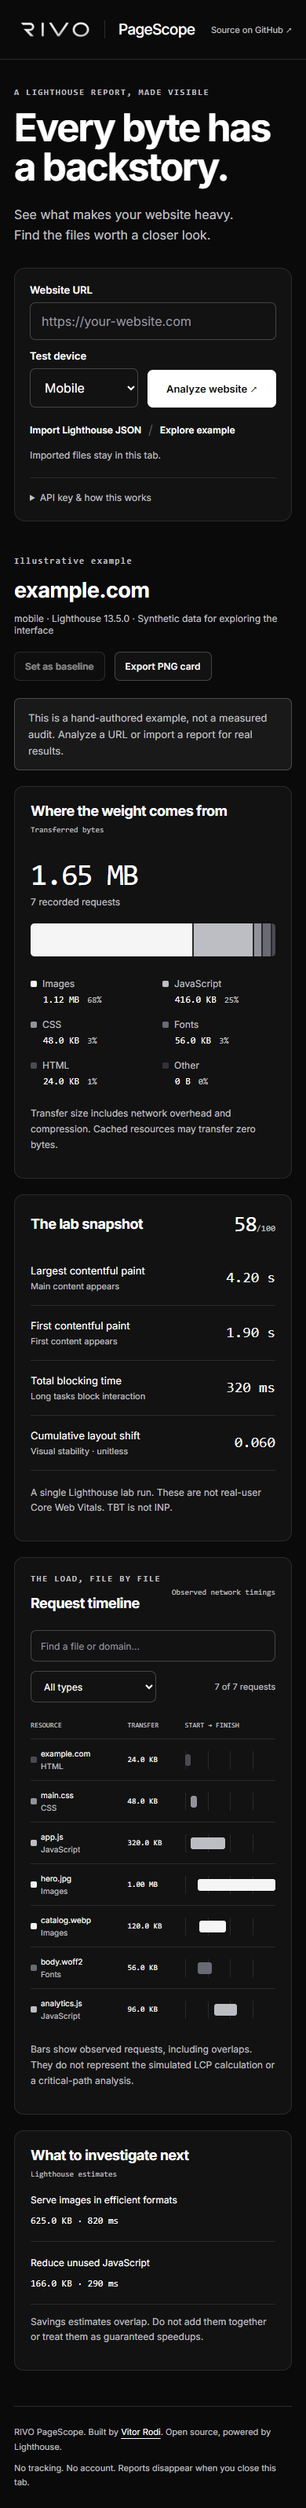
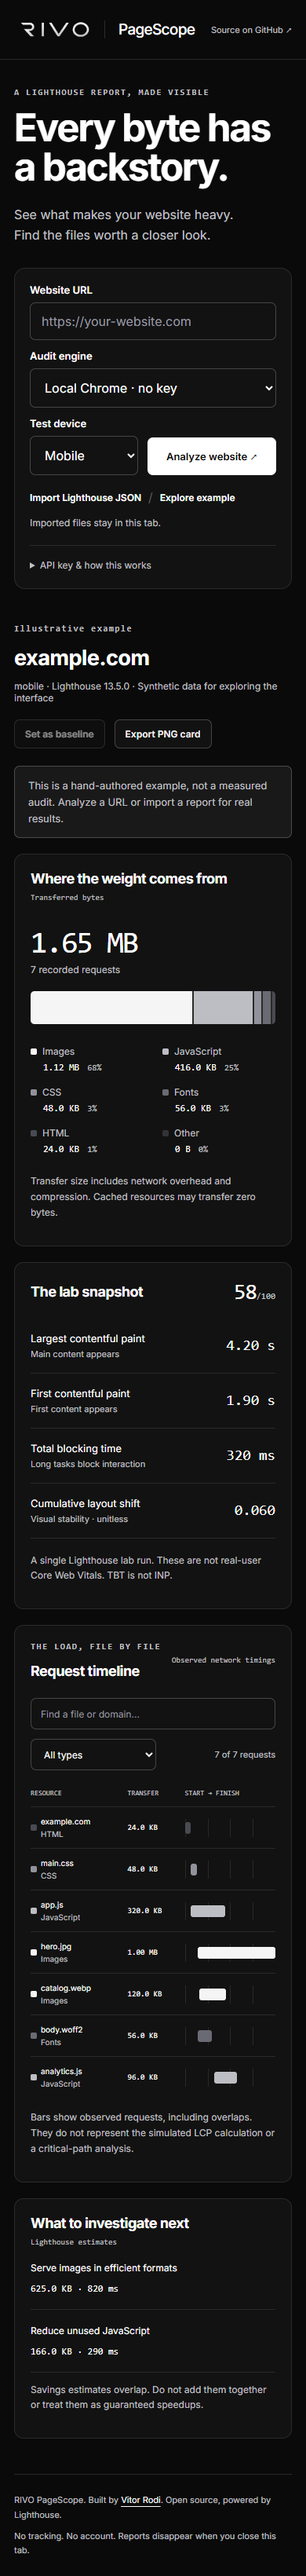
Run Lighthouse locally from the audit button without Google quota

diff --git a/src/main.tsx b/src/main.tsx
@@ -29,6 +29,8 @@ function resourceLabel(url: string) {
 }
 
 function App() {
+  const isLocal = ['127.0.0.1', 'localhost', '[::1]'].includes(window.location.hostname);
+  const [engine, setEngine] = useState(isLocal ? 'local' : 'google');
   const [url, setUrl] = useState('');
   const [device, setDevice] = useState<Device>('mobile');
   const [key, setKey] = useState('');
@@ -60,8 +62,25 @@ function App() {
     setBusy(true);
     const request = new AbortController();
     controller.current = request;
-    const timeout = setTimeout(() => request.abort('timeout'), 120000);
+    const timeout = setTimeout(() => request.abort('timeout'), 150000);
     try {
+      if (engine === 'local') {
+        const localResponse = await fetch(`${import.meta.env.BASE_URL}api/audit`, {
+          method: 'POST',
+          headers: { 'Content-Type': 'application/json' },
+          body: JSON.stringify({ url: target, device }),
+          signal: request.signal,
+        });
+        if (localResponse.status === 404)
+          throw new Error(
+            'The local engine is unavailable. Start this project with npm run dev or npm run preview.',
+          );
+        const localResult = await localResponse.json();
+        if (!localResponse.ok)
+          throw new Error(localResult.error || 'Local Lighthouse could not finish this audit.');
+        show(localResult, 'Local Lighthouse');
+        return;
+      }
       const response = await fetch(buildApiUrl(target, device, key), {
         signal: request.signal,
         referrerPolicy: 'no-referrer',
@@ -87,7 +106,9 @@ function App() {
             ? 'The audit timed out. Try again or import a Lighthouse report.'
             : 'Audit canceled. You can start another run.'
           : e instanceof TypeError
-            ? 'Could not reach PageSpeed Insights. Check your connection or import a Lighthouse report.'
+            ? engine === 'local'
+              ? 'Could not reach the local audit engine. Restart npm run dev and try again.'
+              : 'Could not reach PageSpeed Insights. Check your connection or import a Lighthouse report.'
             : (e as Error).message,
       );
     } finally {
@@ -193,6 +214,18 @@ function App() {
                 autoComplete="url"
               />
             </div>
+            <div className="engine-field">
+              <label htmlFor="engine">Audit engine</label>
+              <select
+                id="engine"
+                value={engine}
+                onChange={(e) => setEngine(e.target.value)}
+                disabled={busy}
+              >
+                {isLocal && <option value="local">Local Chrome · no key</option>}
+                <option value="google">Google PageSpeed</option>
+              </select>
+            </div>
             <div className="device-field">
               <label htmlFor="device">Test device</label>
               <select
@@ -246,8 +279,9 @@ function App() {
           <details className="api-options">
             <summary>API key & how this works</summary>
             <p>
-              URL audits send the website address to Google PageSpeed Insights. Public quota can run
-              out. Use your own restricted key or import a report exported from Chrome DevTools →
+              Local Chrome runs Lighthouse on this computer in a temporary browser profile. No
+              Google API key is needed. Google PageSpeed sends the website address to Google; its
+              public quota can run out. You can also import a report exported from Chrome DevTools →
               Lighthouse → Save as JSON.
             </p>
             <label htmlFor="api-key">Your PageSpeed API key (optional)</label>
@@ -267,14 +301,18 @@ function App() {
               contain URLs and query parameters.
             </p>
             <p>
-              Without a key, run <code>npm run audit -- https://your-website.com</code> locally,
-              then import the generated report. See the GitHub README for setup.
+              Choose Local Chrome above when running this app with npm run dev or npm run preview.
+              The command <code>npm run audit -- https://your-website.com</code> and JSON import
+              remain available as alternatives.
             </p>
           </details>
           {busy && (
             <div className="status" role="status">
               <span className="spinner" aria-hidden="true" />
-              Google is running a lab test. This can take up to two minutes.
+              {engine === 'local'
+                ? 'Chrome is running Lighthouse on this computer.'
+                : 'Google is running a lab test.'}{' '}
+              This can take up to two minutes.
               <button
                 className="text-button"
                 type="button"

diff --git a/tests/local-server.test.ts b/tests/local-server.test.ts
@@ -1,0 +1,137 @@
+import { createServer } from 'node:http';
+import { once } from 'node:events';
+import { afterEach, expect, it } from 'vitest';
+import { createAuditMiddleware } from '../scripts/local-server.mjs';
+import { fixture } from './fixture';
+
+const servers: ReturnType<typeof createServer>[] = [];
+afterEach(async () => {
+  for (const server of servers.splice(0)) {
+    server.closeAllConnections();
+    await new Promise<void>((resolve) => server.close(() => resolve()));
+  }
+});
+async function start(
+  runAudit = async (_url: string, _device: string, _signal: AbortSignal): Promise<unknown> =>
+    fixture(),
+) {
+  const middleware = createAuditMiddleware(runAudit);
+  const server = createServer((req, res) =>
+    middleware(req, res, () => {
+      res.statusCode = 404;
+      res.end();
+    }),
+  );
+  servers.push(server);
+  server.listen(0, '127.0.0.1');
+  await once(server, 'listening');
+  const port = (server.address() as { port: number }).port;
+  return `http://127.0.0.1:${port}`;
+}
+it('makes a local URL audit available without a Google API key', async () => {
+  let received: unknown;
+  const base = await start(async (url, device) => {
+    received = { url, device };
+    return fixture();
+  });
+  const response = await fetch(base + '/api/audit', {
+    method: 'POST',
+    headers: { Origin: base, 'Content-Type': 'application/json' },
+    body: JSON.stringify({ url: 'https://example.com', device: 'desktop' }),
+  });
+  expect(response.status).toBe(200);
+  expect((await response.json()).lighthouseVersion).toBe('13.0.0');
+  expect(received).toEqual({ url: 'https://example.com/', device: 'desktop' });
+});
+it('rejects requests from another website before launching Chrome', async () => {
+  let called = false;
+  const base = await start(async () => {
+    called = true;
+    return fixture();
+  });
+  const response = await fetch(base + '/api/audit', {
+    method: 'POST',
+    headers: { Origin: 'https://other.example', 'Content-Type': 'application/json' },
+    body: JSON.stringify({ url: 'https://example.com', device: 'mobile' }),
+  });
+  expect(response.status).toBe(403);
+  expect(called).toBe(false);
+});
+it.each([
+  { url: 'http://127.0.0.1', device: 'mobile' },
+  { url: 'https://example.com', device: 'watch' },
+])('rejects invalid jobs before starting Chrome', async (body) => {
+  let called = false;
+  const base = await start(async () => {
+    called = true;
+    return fixture();
+  });
+  const response = await fetch(base + '/api/audit', {
+    method: 'POST',
+    headers: { Origin: base, 'Content-Type': 'application/json' },
+    body: JSON.stringify(body),
+  });
+  expect(response.status).toBe(400);
+  expect(called).toBe(false);
+});
+it('returns a useful error when Chrome cannot run and accepts another audit afterwards', async () => {
+  let attempts = 0;
+  const base = await start(async () => {
+    if (attempts++ === 0) throw new Error('Chrome not found');
+    return fixture();
+  });
+  const audit = () =>
+    fetch(base + '/api/audit', {
+      method: 'POST',
+      headers: { Origin: base, 'Content-Type': 'application/json' },
+      body: JSON.stringify({ url: 'https://example.com', device: 'mobile' }),
+    });
+  const failed = await audit();
+  expect(failed.status).toBe(500);
+  expect((await failed.json()).error).toMatch(/Chrome/);
+  expect((await audit()).status).toBe(200);
+});
+
+it('does not launch two Chrome audits concurrently', async () => {
+  let started!: () => void;
+  let finish!: (value: unknown) => void;
+  const running = new Promise<void>((resolve) => {
+    started = resolve;
+  });
+  const result = new Promise((resolve) => {
+    finish = resolve;
+  });
+  const base = await start(async () => {
+    started();
+    return result;
+  });
+  const audit = () =>
+    fetch(base + '/api/audit', {
+      method: 'POST',
+      headers: { Origin: base, 'Content-Type': 'application/json' },
+      body: JSON.stringify({ url: 'https://example.com', device: 'mobile' }),
+    });
+  const first = audit();
+  await running;
+  try {
+    expect((await audit()).status).toBe(409);
+  } finally {
+    finish(fixture());
+  }
+  expect((await first).status).toBe(200);
+});
+
+it('rejects a missing origin instead of allowing arbitrary local callers', async () => {
+  let called = false;
+  const base = await start(async () => {
+    called = true;
+    return fixture();
+  });
+  const response = await fetch(base + '/api/audit', {
+    method: 'POST',
+    headers: { 'Content-Type': 'application/json' },
+    body: JSON.stringify({ url: 'https://example.com', device: 'mobile' }),
+  });
+  expect(response.status).toBe(403);
+  expect(called).toBe(false);
+});

diff --git a/tests/e2e/app.spec.ts b/tests/e2e/app.spec.ts
@@ -43,6 +43,7 @@ test('explains quota failures and keeps the API key out of browser storage', asy
   );
   await page.goto('/');
   await page.getByLabel('Website URL').fill('https://example.com');
+  await page.getByLabel('Audit engine').selectOption('google');
   await page.getByText('API key & how this works', { exact: true }).click();
   await page.getByLabel('Your PageSpeed API key (optional)').fill('test-key-not-a-secret');
   await page.getByRole('button', { name: 'Analyze website' }).click();
@@ -58,11 +59,27 @@ test('renders a successful API response and sends the selected device', async ({
   });
   await page.goto('/');
   await page.getByLabel('Website URL').fill('https://example.com/?a=1&b=2');
+  await page.getByLabel('Audit engine').selectOption('google');
   await page.getByLabel('Test device').selectOption('desktop');
   await page.getByRole('button', { name: 'Analyze website' }).click();
   await expect(page.getByText('PageSpeed Insights', { exact: true })).toBeVisible();
   expect(new URL(requested).searchParams.get('strategy')).toBe('desktop');
   expect(new URL(requested).searchParams.get('url')).toBe('https://example.com/?a=1&b=2');
+});
+
+test('uses the local engine from the analyze button without contacting Google', async ({
+  page,
+}) => {
+  let googleCalls = 0;
+  page.on('request', (request) => {
+    if (request.url().includes('googleapis.com')) googleCalls++;
+  });
+  await page.route('**/api/audit', (route) => route.fulfill({ json: fixture() }));
+  await page.goto('/');
+  await page.getByLabel('Website URL').fill('https://example.com');
+  await page.getByRole('button', { name: 'Analyze website' }).click();
+  await expect(page.getByText('Local Lighthouse', { exact: true })).toBeVisible();
+  expect(googleCalls).toBe(0);
 });
 
 test('mobile layout fits the viewport and invalid imports produce a useful error', async ({

diff --git a/tests/lighthouse-runner.test.ts b/tests/lighthouse-runner.test.ts
@@ -1,0 +1,15 @@
+import { expect, it, vi } from 'vitest';
+import { runLocalAudit } from '../scripts/lighthouse-runner.mjs';
+
+// Chrome and the website audit are external boundaries. On Windows kill() can return void.
+vi.mock('chrome-launcher', () => ({ launch: async () => ({ port: 9234, kill() {} }) }));
+vi.mock('lighthouse', () => ({
+  default: async () => ({
+    lhr: { lighthouseVersion: '13.5.0', finalDisplayedUrl: 'https://example.com/' },
+  }),
+}));
+it('returns the completed report when Chrome cleanup returns void', async () => {
+  const report = await runLocalAudit('https://example.com/', 'mobile');
+  expect(report.lighthouseVersion).toBe('13.5.0');
+  expect(report.finalDisplayedUrl).toBe('https://example.com/');
+});

diff --git a/vite.config.ts b/vite.config.ts
@@ -1,2 +1,17 @@
 import { defineConfig } from 'vitest/config';
-export default defineConfig({ base: './', test: { include: ['tests/**/*.test.ts'] } });
+import { createAuditMiddleware } from './scripts/local-server.mjs';
+export default defineConfig({
+  base: './',
+  plugins: [
+    {
+      name: 'local-lighthouse',
+      configureServer(server) {
+        server.middlewares.use(createAuditMiddleware());
+      },
+      configurePreviewServer(server) {
+        server.middlewares.use(createAuditMiddleware());
+      },
+    },
+  ],
+  test: { include: ['tests/**/*.test.ts'] },
+});

diff --git a/src/style.css b/src/style.css
@@ -185,6 +185,9 @@ label {
 .device-field {
   width: 140px;
 }
+.engine-field {
+  width: 210px;
+}
 input,
 select {
   width: 100%;
@@ -689,6 +692,9 @@ footer p {
   }
 }
 @media (max-width: 580px) {
+  .engine-field {
+    width: 100%;
+  }
   main {
     padding: 0 18px;
   }

diff --git a/README.md b/README.md
@@ -2,11 +2,12 @@
 
 **See what makes a website heavy.** RIVO PageScope turns Lighthouse JSON reports into a visual breakdown of page weight, network requests, and lab metrics. Built with React and TypeScript, using RIVO's black, white, graphite, and silver identity.
 
-![RIVO PageScope interface](docs/pagescope-desktop.png)
+![RIVO PageScope displaying an actual local Lighthouse run](docs/local-audit-verified.png)
 
 ## What you can do
 
-- Audit a public URL on mobile or desktop through Google PageSpeed Insights.
+- Audit a public URL on mobile or desktop using local Chrome, without an API key.
+- Optionally switch to Google PageSpeed Insights for a remote audit.
 - Import Lighthouse or PageSpeed JSON files locally, without uploading them.
 - See transferred bytes grouped into images, JavaScript, CSS, fonts, HTML, and other resources.
 - Filter a request waterfall by filename, domain, or resource type.
@@ -26,7 +27,9 @@ npm ci
 npm run dev
 ```
 
-Open the local address printed by Vite. The application is a static client: no database, account, server-side URL fetcher, or paid service is required.
+Open the local address printed by Vite. **Local Chrome is selected by default** on localhost. Enter a website URL and select **Analyze website**; the local engine runs Lighthouse and displays the report automatically. Chrome must be installed. No API key, JSON import, database, or account is needed for this flow.
+
+Vite's development and preview servers include a local-only audit endpoint. It accepts same-origin requests from the loopback interface, validates the URL/device, runs one audit at a time, and cancels Chrome when the client disconnects. Do not expose this development server as a public audit service. A static deployment of `dist/` has no local Chrome endpoint: it supports Google PageSpeed and JSON import instead.
 
 ### Get a real report without an API key
 
@@ -43,11 +46,13 @@ Alternatively, open Chrome DevTools → Lighthouse, run a navigation performance
 
 ### URL audits and API quota
 
-The **Analyze website** action sends your URL to the [PageSpeed Insights API](https://developers.google.com/speed/docs/insights/v5/get-started). Anonymous quota may be exhausted; during development the real API returned HTTP 429. PageScope explains this instead of inventing results.
+With **Local Chrome**, the website is visited from your computer in a temporary browser profile, and no Google API request is made. The result appears directly in the app. Only audit websites you are allowed to test.
+
+With **Google PageSpeed** selected, **Analyze website** sends your URL to the [PageSpeed Insights API](https://developers.google.com/speed/docs/insights/v5/get-started). Anonymous quota may be exhausted; development and browser reproduction both confirmed HTTP 429. The local engine avoids this dependency on localhost.
 
 You can optionally enter your own Google PageSpeed API key under **API key & how this works**. It is kept only in React memory and sent directly to Google. Do not commit keys. Restrict browser keys to the PageSpeed API and your website's HTTP referrers. This is a browser-visible key, not a server secret.
 
-If the public quota is unavailable, use the local command or import a DevTools report. A successful live Google audit with a user-provided key has not been verified in this repository's initial validation.
+If the public quota is unavailable, switch to Local Chrome when using this app locally. The local command and DevTools JSON import remain available. A successful live Google audit with a user-provided key has not been verified.
 
 ## Before and after
 
@@ -69,7 +74,7 @@ Negative byte and timing deltas mean less; positive score deltas mean higher. Di
 
 ## Privacy
 
-Imported files, baseline reports, and API keys remain in memory; closing or reloading the tab clears them. There are no analytics, cookies, localStorage, or sessionStorage writes. Imports do not trigger remote requests for report resources. URL audits send the target URL to Google. Exporting a card downloads a PNG locally. Reports may contain sensitive URLs and query parameters: inspect files before sharing them. The summary card includes the hostname, not the query string.
+Imported files, baseline reports, and API keys remain in memory; closing or reloading the tab clears them. There are no analytics, cookies, localStorage, or sessionStorage writes. Imports do not trigger remote requests for report resources. Local Chrome visits the target website from a temporary local browser profile; Google PageSpeed sends the target URL to Google. The local endpoint returns its report without writing a report file (the separate CLI command saves to `reports/`). Exporting a card downloads a PNG locally. Reports may contain sensitive URLs and query parameters: inspect files before sharing them. The summary card includes the hostname, not the query string.
 
 ## Verify
 

diff --git a/docs/VALIDATION.md b/docs/VALIDATION.md
@@ -17,3 +17,11 @@ This repository publishes source code. No hosted deployment or LinkedIn publicat
 ## RIVO identity revision
 
 Renamed to RIVO PageScope, with repository URL `https://github.com/VitorRodi/rivo-pagescope`. Applied the existing RIVO black/white/graphite/silver palette, original wordmark and app icon, and locally bundled Inter. The font license is included. Runtime, comparison logic, and measurement boundaries are unchanged. Desktop, mobile, measured-import, and sample-card images were refreshed for the RIVO theme.
+
+## Fix: URL analysis without Google quota
+
+The original Analyze website button depended on Google even when running locally. Browser reproduction confirmed HTTP 429. Local Chrome is now the default engine on localhost and the Vite dev/preview server runs Lighthouse directly, returning its measured report to the interface. This is a local capability, not a hosted public audit service. Google remains an explicit alternative for static deployments.
+
+The local endpoint has regression checks for same-origin access, URL/device validation, and recovery from a Chrome failure. A separate regression catches Chrome launcher cleanup returning void on Windows, which must not discard a completed report. Browser tests cover local engine selection with no Google request; an actual Chrome audit is verified separately, without a fixture, via the interface.
+
+Final local verification: 30 unit/integration tests and 6 browser tests passed; TypeScript/Vite production build passed. Clicking Analyze website for `https://example.com` in the actual browser returned HTTP 200 from `/api/audit`, displayed `Local Lighthouse` with 2 recorded requests, and made no PageSpeed API request. See `local-audit-verified.png`. Google mode continues to depend on Google quota; static hosting does not acquire a Chrome backend from this change.
